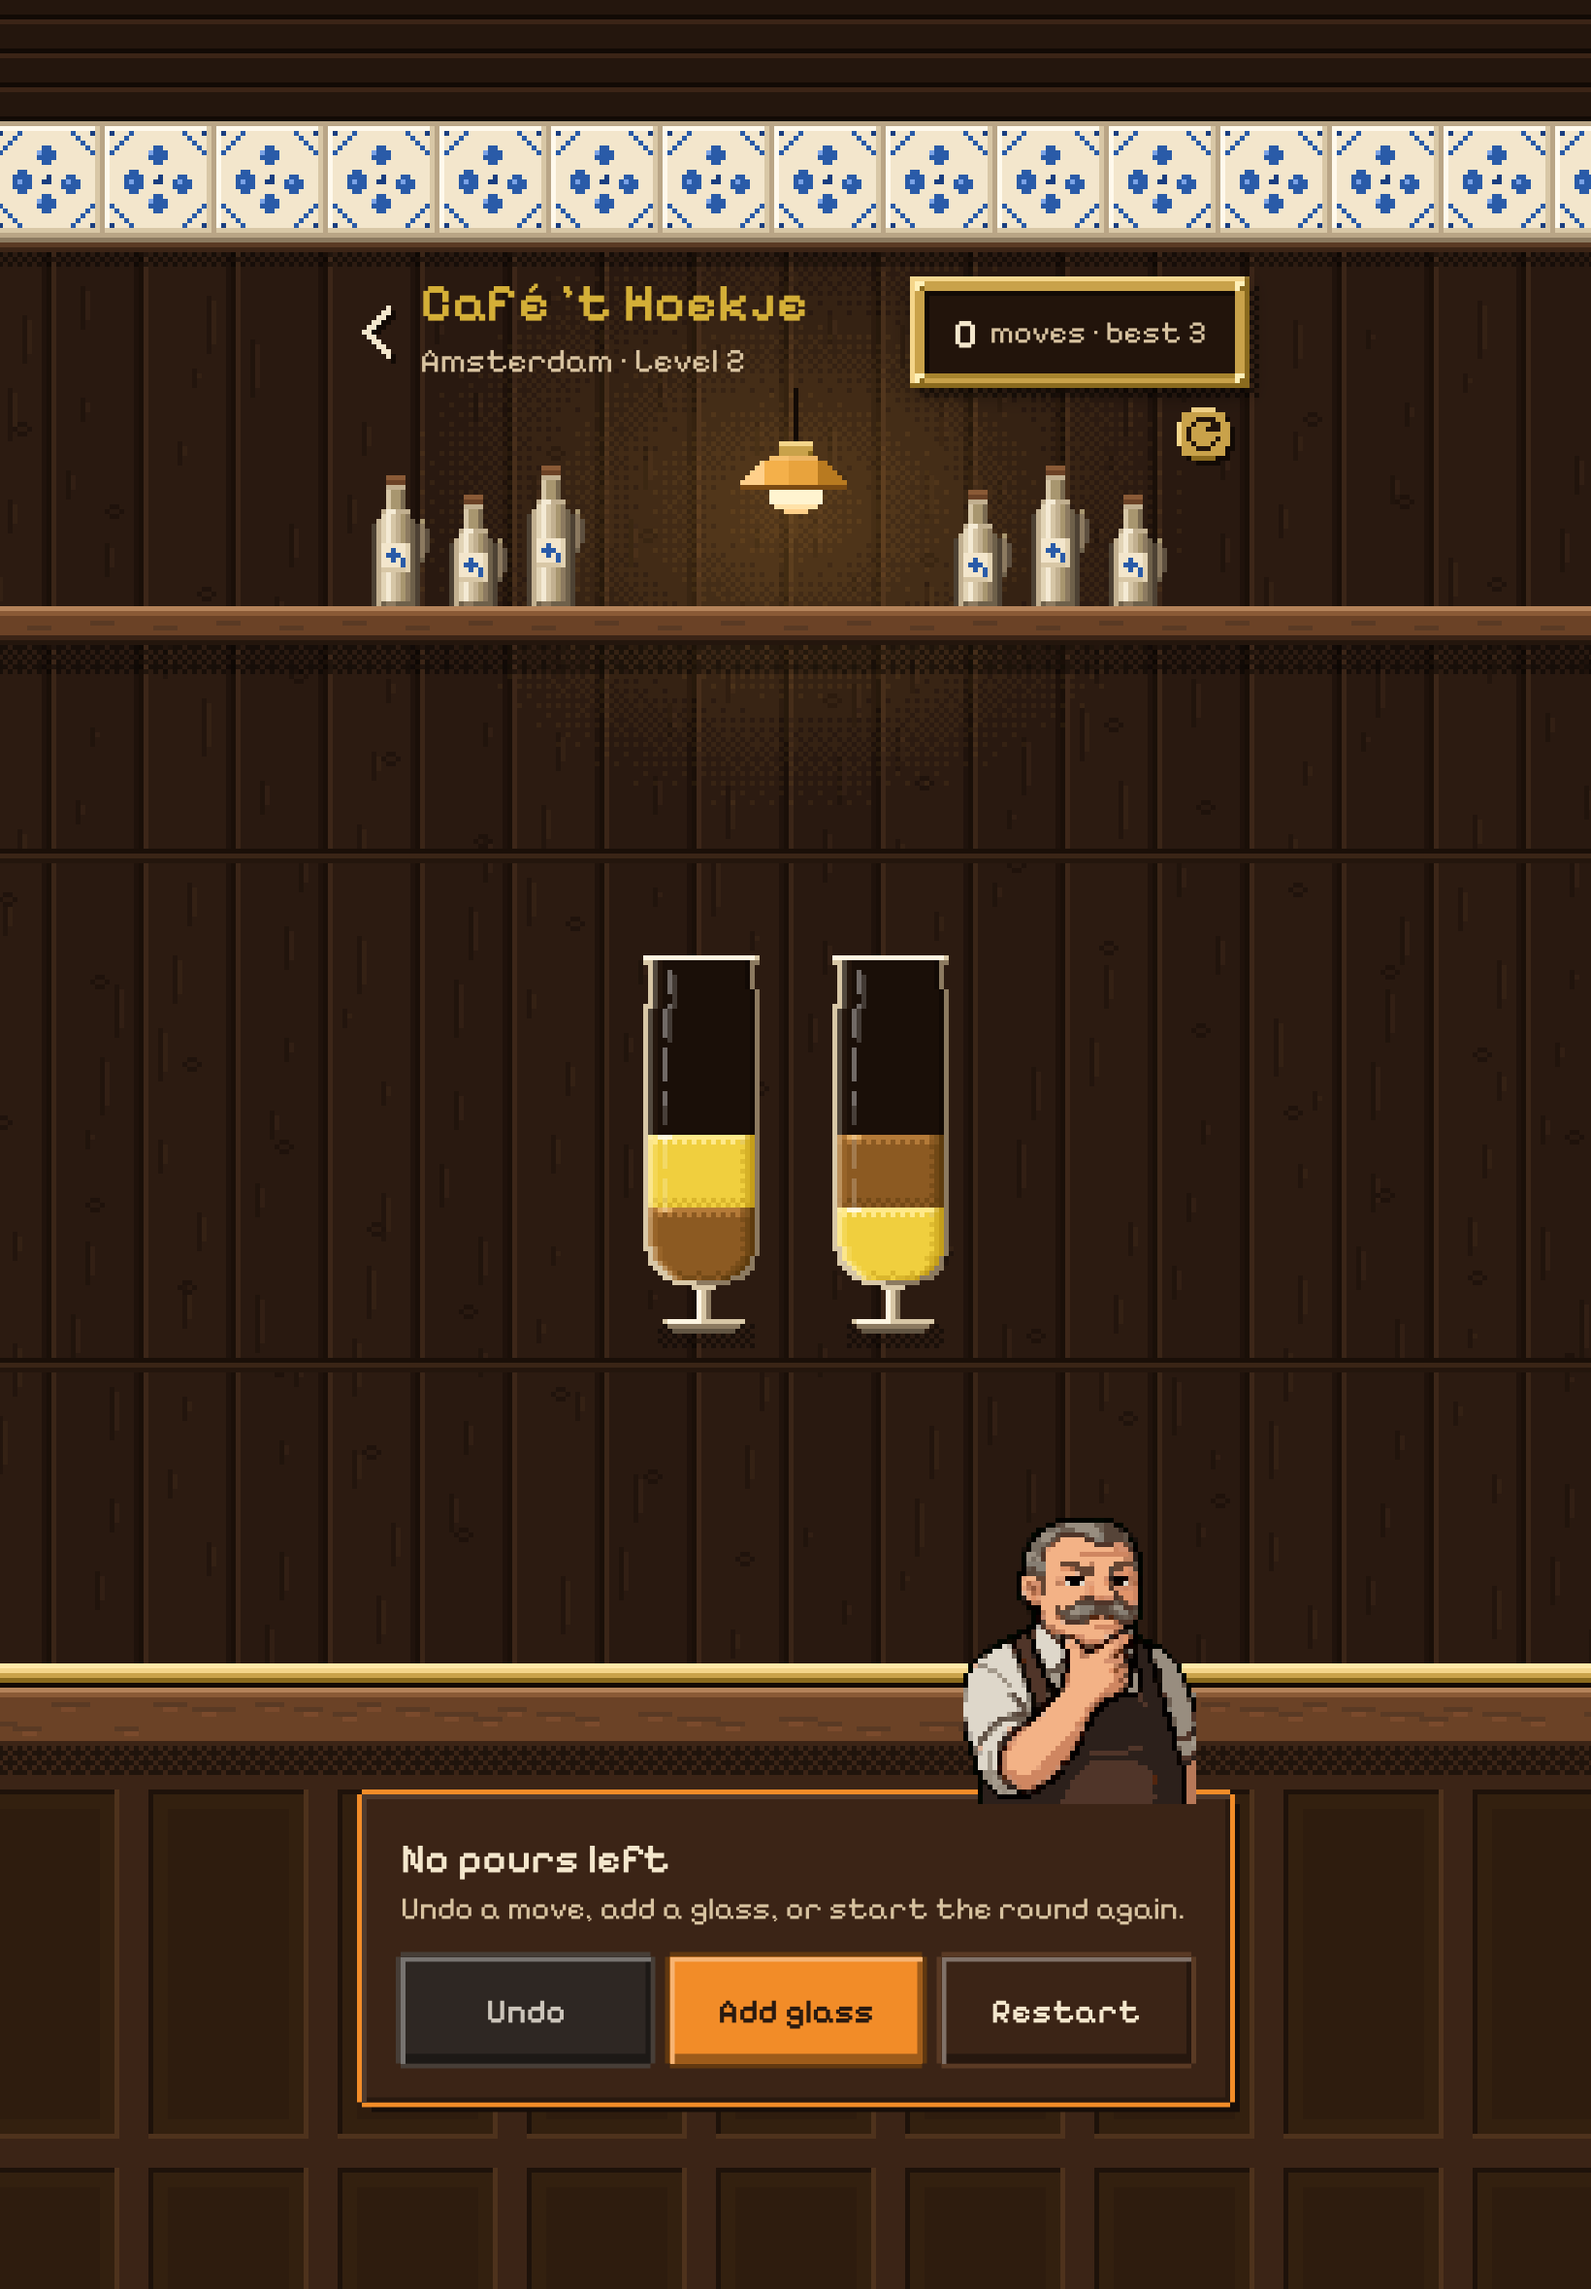
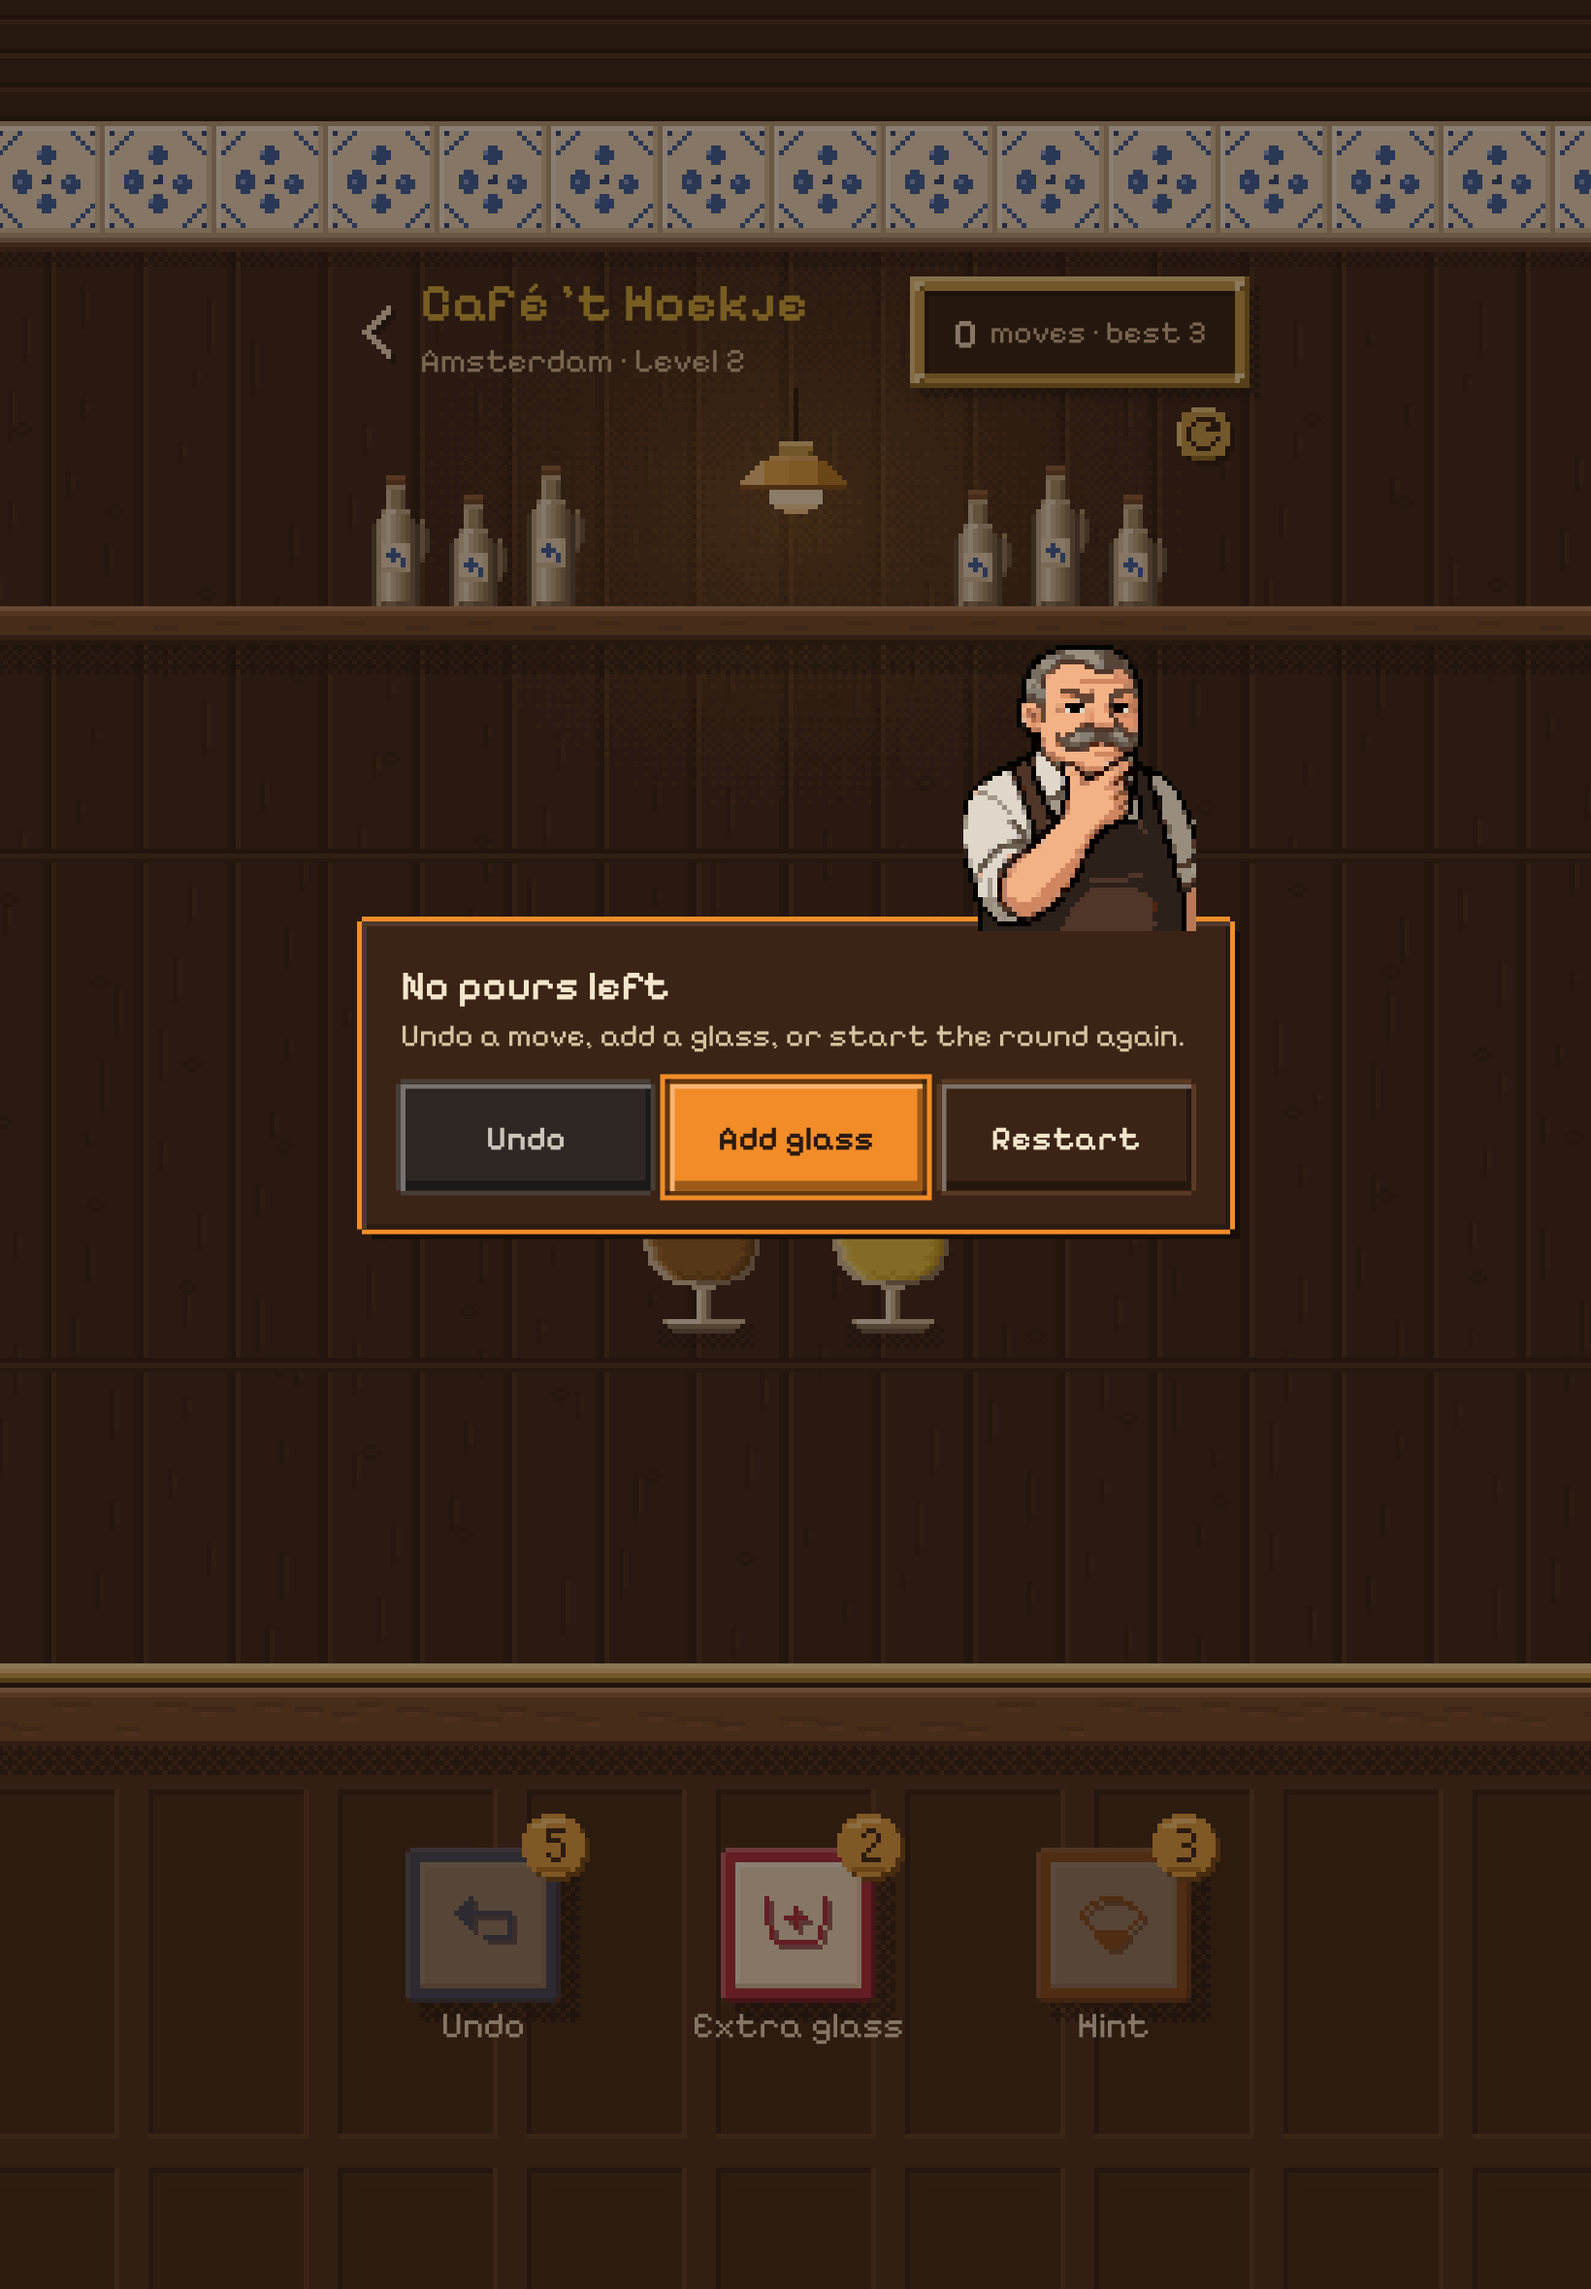
Show the dead end mid-screen over a light dim
The "No pours left" panel sat down on the counter, where players rarely look.
It now pops up in the middle of the bar, over a dim that keeps the glasses
visible, and focuses its first action.

Changed region(s): [[0.0, 0.0309, 1.0, 0.5877], [0.0, 0.6496, 1.0, 0.928]]

diff --git a/apps/web/src/level/screen.ts b/apps/web/src/level/screen.ts
@@ -607,11 +607,14 @@ export class LevelScreen {
   private renderDeadEnd(): void {
     const panel = this.el.querySelector<HTMLElement>('.lv-deadend')!;
     const show = this.game.status === 'deadEnd';
+    const wasShown = !panel.hidden;
     panel.hidden = !show;
+    this.el.querySelector<HTMLElement>('.lv-dim')!.hidden = !show;
     if (!show) return;
     panel.querySelector<HTMLButtonElement>('.de-undo')!.disabled = !this.game.canUndo() || this.opts.boosters === false;
     const glass = panel.querySelector<HTMLButtonElement>('.de-glass')!;
     glass.disabled = !this.game.canAddGlass() || this.opts.boosters === false;
+    if (!wasShown) panel.querySelector<HTMLButtonElement>('.de-actions button:not(:disabled)')?.focus();
   }
 
   /** Level 1 pointer: points at the source glass, then at the target, until the first pour. */
@@ -716,6 +719,7 @@ export class LevelScreen {
         ${booster('glass', 'Extra glass', 1)}
         ${booster('hint', 'Hint', 2)}
       </div>
+      <div class="lv-dim" hidden></div>
       <section class="lv-deadend px-panel" hidden aria-labelledby="de-title" role="alertdialog">
         ${bartenderImg(this.theme.id, 'think', 'de-barkeep')}
         <div>

diff --git a/apps/web/src/style.css b/apps/web/src/style.css
@@ -2044,6 +2044,39 @@ input {
   top: -124px;
 }
 
+/* A dead end stops play, so it shows mid-screen over a light dim (the stuck glasses stay
+   visible), where the player is looking, rather than down on the counter. */
+.lv-deadend {
+  top: 330px;
+  z-index: 3;
+  animation: de-pop 0.18s steps(3) both;
+}
+.lv-dim {
+  position: absolute;
+  inset: 0;
+  z-index: 2;
+}
+.lv-dim::before {
+  content: '';
+  position: absolute;
+  inset: -2048px;
+  background: color-mix(in srgb, var(--c-ground) 55%, transparent);
+}
+.lv-dim[hidden] {
+  display: none;
+}
+@keyframes de-pop {
+  from {
+    translate: 0 16px;
+    opacity: 0;
+  }
+}
+@media (prefers-reduced-motion: reduce) {
+  .lv-deadend {
+    animation: none;
+  }
+}
+
 /* The first level's host: the city's bartender on the counter, with a speech bubble. */
 .lv-host {
   position: absolute;
